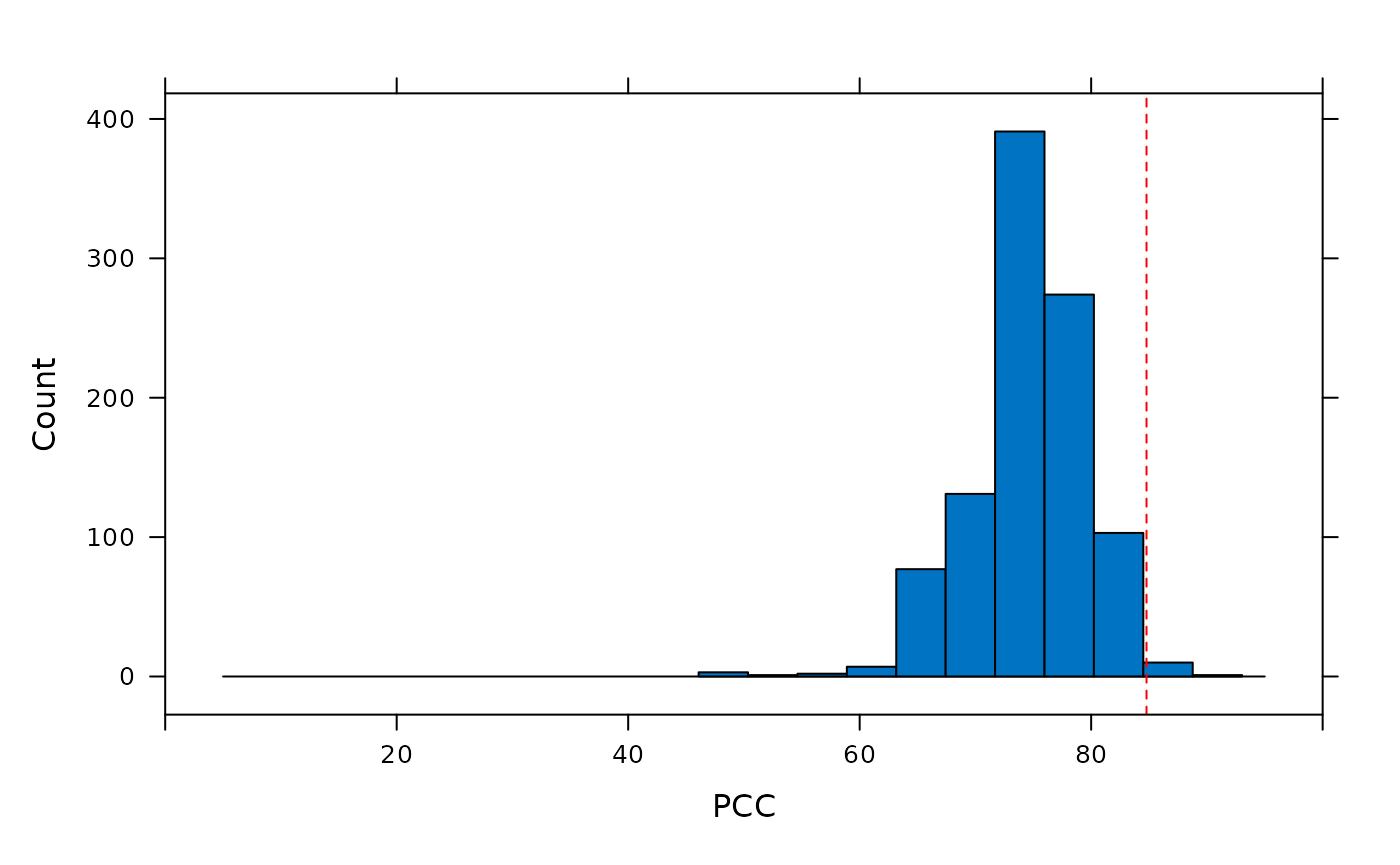
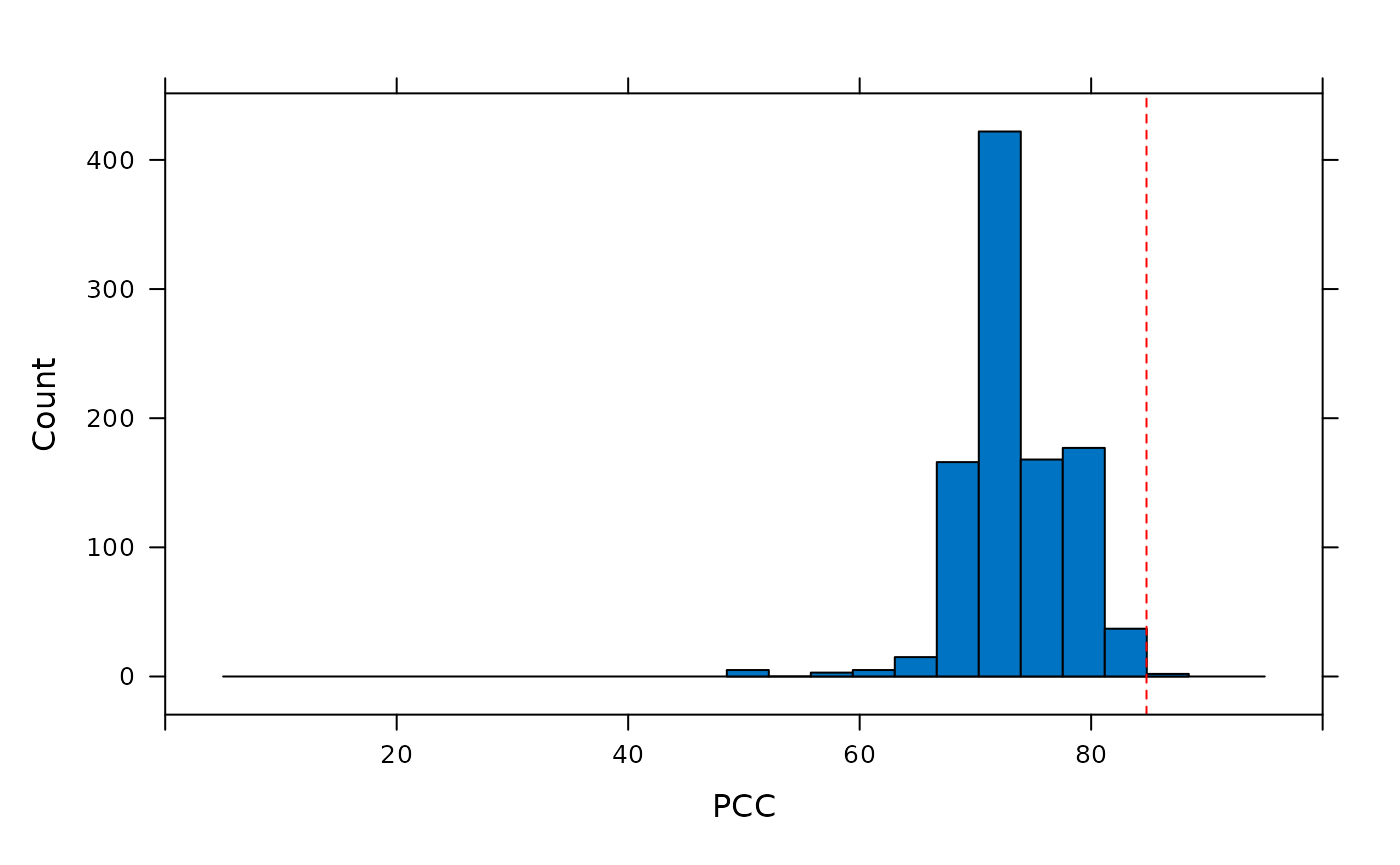
Deploying to gh-pages from @ timbeechey/clubpro@c503e65262275634a5738dadd81eca93ba0f00fb 🚀

diff --git a/index.html b/index.html
@@ -110,20 +110,22 @@
 <p>Print a summary of the model output.</p>
 <div class="sourceCode" id="cb7"><pre class="downlit sourceCode r">
 <code class="sourceCode R"><span><span class="fu"><a href="https://rdrr.io/r/base/summary.html" class="external-link">summary</a></span><span class="op">(</span><span class="va">mod</span><span class="op">)</span></span>
-<span><span class="co">#&gt; ********** Model Summary **********n</span></span>
+<span><span class="co">#&gt; ********** Model Summary **********</span></span>
+<span><span class="co">#&gt; </span></span>
 <span><span class="co">#&gt; ----- Classification Results -----</span></span>
 <span><span class="co">#&gt; Observations:  30 </span></span>
 <span><span class="co">#&gt; Missing observations:  0 </span></span>
 <span><span class="co">#&gt; Target groups:  3 </span></span>
 <span><span class="co">#&gt; Correctly classified observations:  15 </span></span>
-<span><span class="co">#&gt; Incorrectly classified observations:  7 </span></span>
-<span><span class="co">#&gt; Ambiguously classified observations:  8 </span></span>
+<span><span class="co">#&gt; Incorrectly classified observations:  6 </span></span>
+<span><span class="co">#&gt; Ambiguously classified observations:  9 </span></span>
 <span><span class="co">#&gt; PCC:  50 </span></span>
 <span><span class="co">#&gt; Median classification strength index:  0.74 </span></span>
+<span><span class="co">#&gt; </span></span>
 <span><span class="co">#&gt; ----- Randomisation Test Results -----</span></span>
 <span><span class="co">#&gt; Random reorderings:  1000 </span></span>
-<span><span class="co">#&gt; Minimum random PCC:  20 </span></span>
-<span><span class="co">#&gt; Maximum random PCC:  76.67 </span></span>
+<span><span class="co">#&gt; Minimum random PCC:  30 </span></span>
+<span><span class="co">#&gt; Maximum random PCC:  83.33 </span></span>
 <span><span class="co">#&gt; Chance-value:  0.9</span></span></code></pre></div>
 <p>Plot the classification results.</p>
 <div class="sourceCode" id="cb8"><pre class="downlit sourceCode r">

diff --git a/articles/clubpro.html b/articles/clubpro.html
@@ -99,8 +99,8 @@
 <span><span class="co">#&gt; </span></span>
 <span><span class="co">#&gt; ----- Randomisation Test Results -----</span></span>
 <span><span class="co">#&gt; Random reorderings:  1000 </span></span>
-<span><span class="co">#&gt; Minimum random PCC:  47.83 </span></span>
-<span><span class="co">#&gt; Maximum random PCC:  91.3 </span></span>
+<span><span class="co">#&gt; Minimum random PCC:  50 </span></span>
+<span><span class="co">#&gt; Maximum random PCC:  86.96 </span></span>
 <span><span class="co">#&gt; Chance-value:  0.01</span></span></code></pre></div>
 <div class="sourceCode" id="cb5"><pre class="downlit sourceCode r">
 <code class="sourceCode R"><span><span class="fu"><a href="https://rdrr.io/r/graphics/plot.default.html" class="external-link">plot</a></span><span class="op">(</span><span class="va">mod</span><span class="op">)</span></span></code></pre></div>
@@ -122,7 +122,7 @@
 <span><span class="co">#&gt; [1] 84.78261</span></span></code></pre></div>
 <div class="sourceCode" id="cb9"><pre class="downlit sourceCode r">
 <code class="sourceCode R"><span><span class="fu"><a href="../reference/cval.html">cval</a></span><span class="op">(</span><span class="va">mod</span><span class="op">)</span></span>
-<span><span class="co">#&gt; [1] 0.011</span></span></code></pre></div>
+<span><span class="co">#&gt; [1] 0.009</span></span></code></pre></div>
 <div class="sourceCode" id="cb10"><pre class="downlit sourceCode r">
 <code class="sourceCode R"><span><span class="fu"><a href="https://rdrr.io/r/graphics/plot.default.html" class="external-link">plot</a></span><span class="op">(</span><span class="fu"><a href="../reference/pcc_replicates.html">pcc_replicates</a></span><span class="op">(</span><span class="va">mod</span><span class="op">)</span><span class="op">)</span></span></code></pre></div>
 <p><img src="clubpro_files/figure-html/plot_cval_dist-1.png" width="700"></p>
